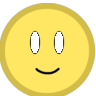
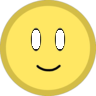
Add files via upload

diff --git a/public/index.html b/public/index.html
@@ -45,7 +45,9 @@
             player.screenY = logicalHeight / 2;
         }
 
-        // 1. 镂空身体图（眼眶透明，盖在最上层）
+        // ================= 图片加载区 =================
+        
+        // 1. 镂空身体图（眼眶是透明的，盖在最上面）
         const imgNormal = new Image();
         imgNormal.src = '/img/player-default.png';
 
@@ -55,7 +57,7 @@
         const imgDefend = new Image();
         imgDefend.src = '/img/player-defense.png';
 
-        // 2. 黑色眼底图（垫在最下层）
+        // 2. 黑色眼底图（眼眶区域是黑的，垫在最底下）
         const imgNormalEye = new Image();
         imgNormalEye.src = '/img/player-default-eye.png';
 
@@ -64,6 +66,8 @@
 
         const imgDefendEye = new Image();
         imgDefendEye.src = '/img/player-defense-eye.png';
+
+        // ==============================================
 
         const socket = io();
         let otherPlayers = {};
@@ -163,6 +167,7 @@
         }
 
         function drawPlayer(x, y, pData, isMe) {
+            // 画花瓣
             for (let i = 0; i < pData.petalCount; i++) {
                 const angle = pData.rotationAngle + (i * (Math.PI * 2) / pData.petalCount);
                 const petalX = Math.round(x + Math.cos(angle) * pData.currentDistance);
@@ -178,12 +183,8 @@
             }
 
             const imgSize = 48;
-
-            // 主体整体微微上移一点，修正底部像被削掉的感觉
-            const bodyOffsetY = -1.5;
-
             const drawX = Math.round(x - imgSize / 2);
-            const drawY = Math.round(y - imgSize / 2 + bodyOffsetY);
+            const drawY = Math.round(y - imgSize / 2);
 
             function drawBodyImg(img, alpha) {
                 if (!img.complete || alpha <= 0.01) return;
@@ -196,25 +197,27 @@
             const aBlend = pData.attackBlend || 0;
             const dBlend = pData.defendBlend || 0;
 
-            // 第一层：黑色眼底
+            // ================== 开始分层渲染角色 ==================
+
+            // 【第一层】画底层黑底眼眶
             drawBodyImg(imgNormalEye, 1);
             drawBodyImg(imgAttackEye, aBlend);
             drawBodyImg(imgDefendEye, dBlend);
 
-            // 第二层：白色眼球
+            // 【第二层】画白色动态眼球
             const scale = imgSize / 96;
 
-            // 眼球整体：往左微调一点，往下微调一点
+            // 整体往左一点、往下微调一点
             const leftEyeBaseX = -13 * scale;
-            const leftEyeBaseY = -7 * scale;
+            const leftEyeBaseY = -7.5 * scale;
             const rightEyeBaseX = 11 * scale;
-            const rightEyeBaseY = -7 * scale;
+            const rightEyeBaseY = -7.5 * scale;
 
             const highlightMove = 6 * scale;
             const facingAngle = pData.facingAngle || 0;
-
+            
             const eyeOffsetXScale = 0.65;
-            const eyeOffsetYScale = 1.2; // 上下移动幅度减小一点
+            const eyeOffsetYScale = 1.15; // 上下移动幅度再减小一点
 
             const offsetX = Math.cos(facingAngle) * highlightMove * eyeOffsetXScale;
             const offsetY = Math.sin(facingAngle) * highlightMove * eyeOffsetYScale;
@@ -243,17 +246,18 @@
                 Math.PI * 2
             );
             ctx.fill();
-
             ctx.restore();
 
-            // 第三层：镂空主体盖上去
+            // 【第三层】画顶层镂空身体（挡住超出的眼球）
             drawBodyImg(imgNormal, 1);
             drawBodyImg(imgAttack, aBlend);
             drawBodyImg(imgDefend, dBlend);
+
+            // ======================================================
         }
 
         function gameLoop() {
-            ctx.clearRect(0, 0, logicalWidth, logicalHeight);
+            ctx.clearRect(0, 0, canvas.width, canvas.height);
 
             const dx = player.mouseX - player.screenX;
             const dy = player.mouseY - player.screenY;
@@ -285,6 +289,7 @@
 
             drawGrid();
 
+            // 画鼠标指示线
             if (dist > 10) {
                 ctx.save();
                 ctx.translate(player.screenX, player.screenY);
@@ -310,6 +315,7 @@
                 ctx.restore();
             }
 
+            // 画其他玩家和自己
             for (let id in otherPlayers) {
                 const p = otherPlayers[id];
 